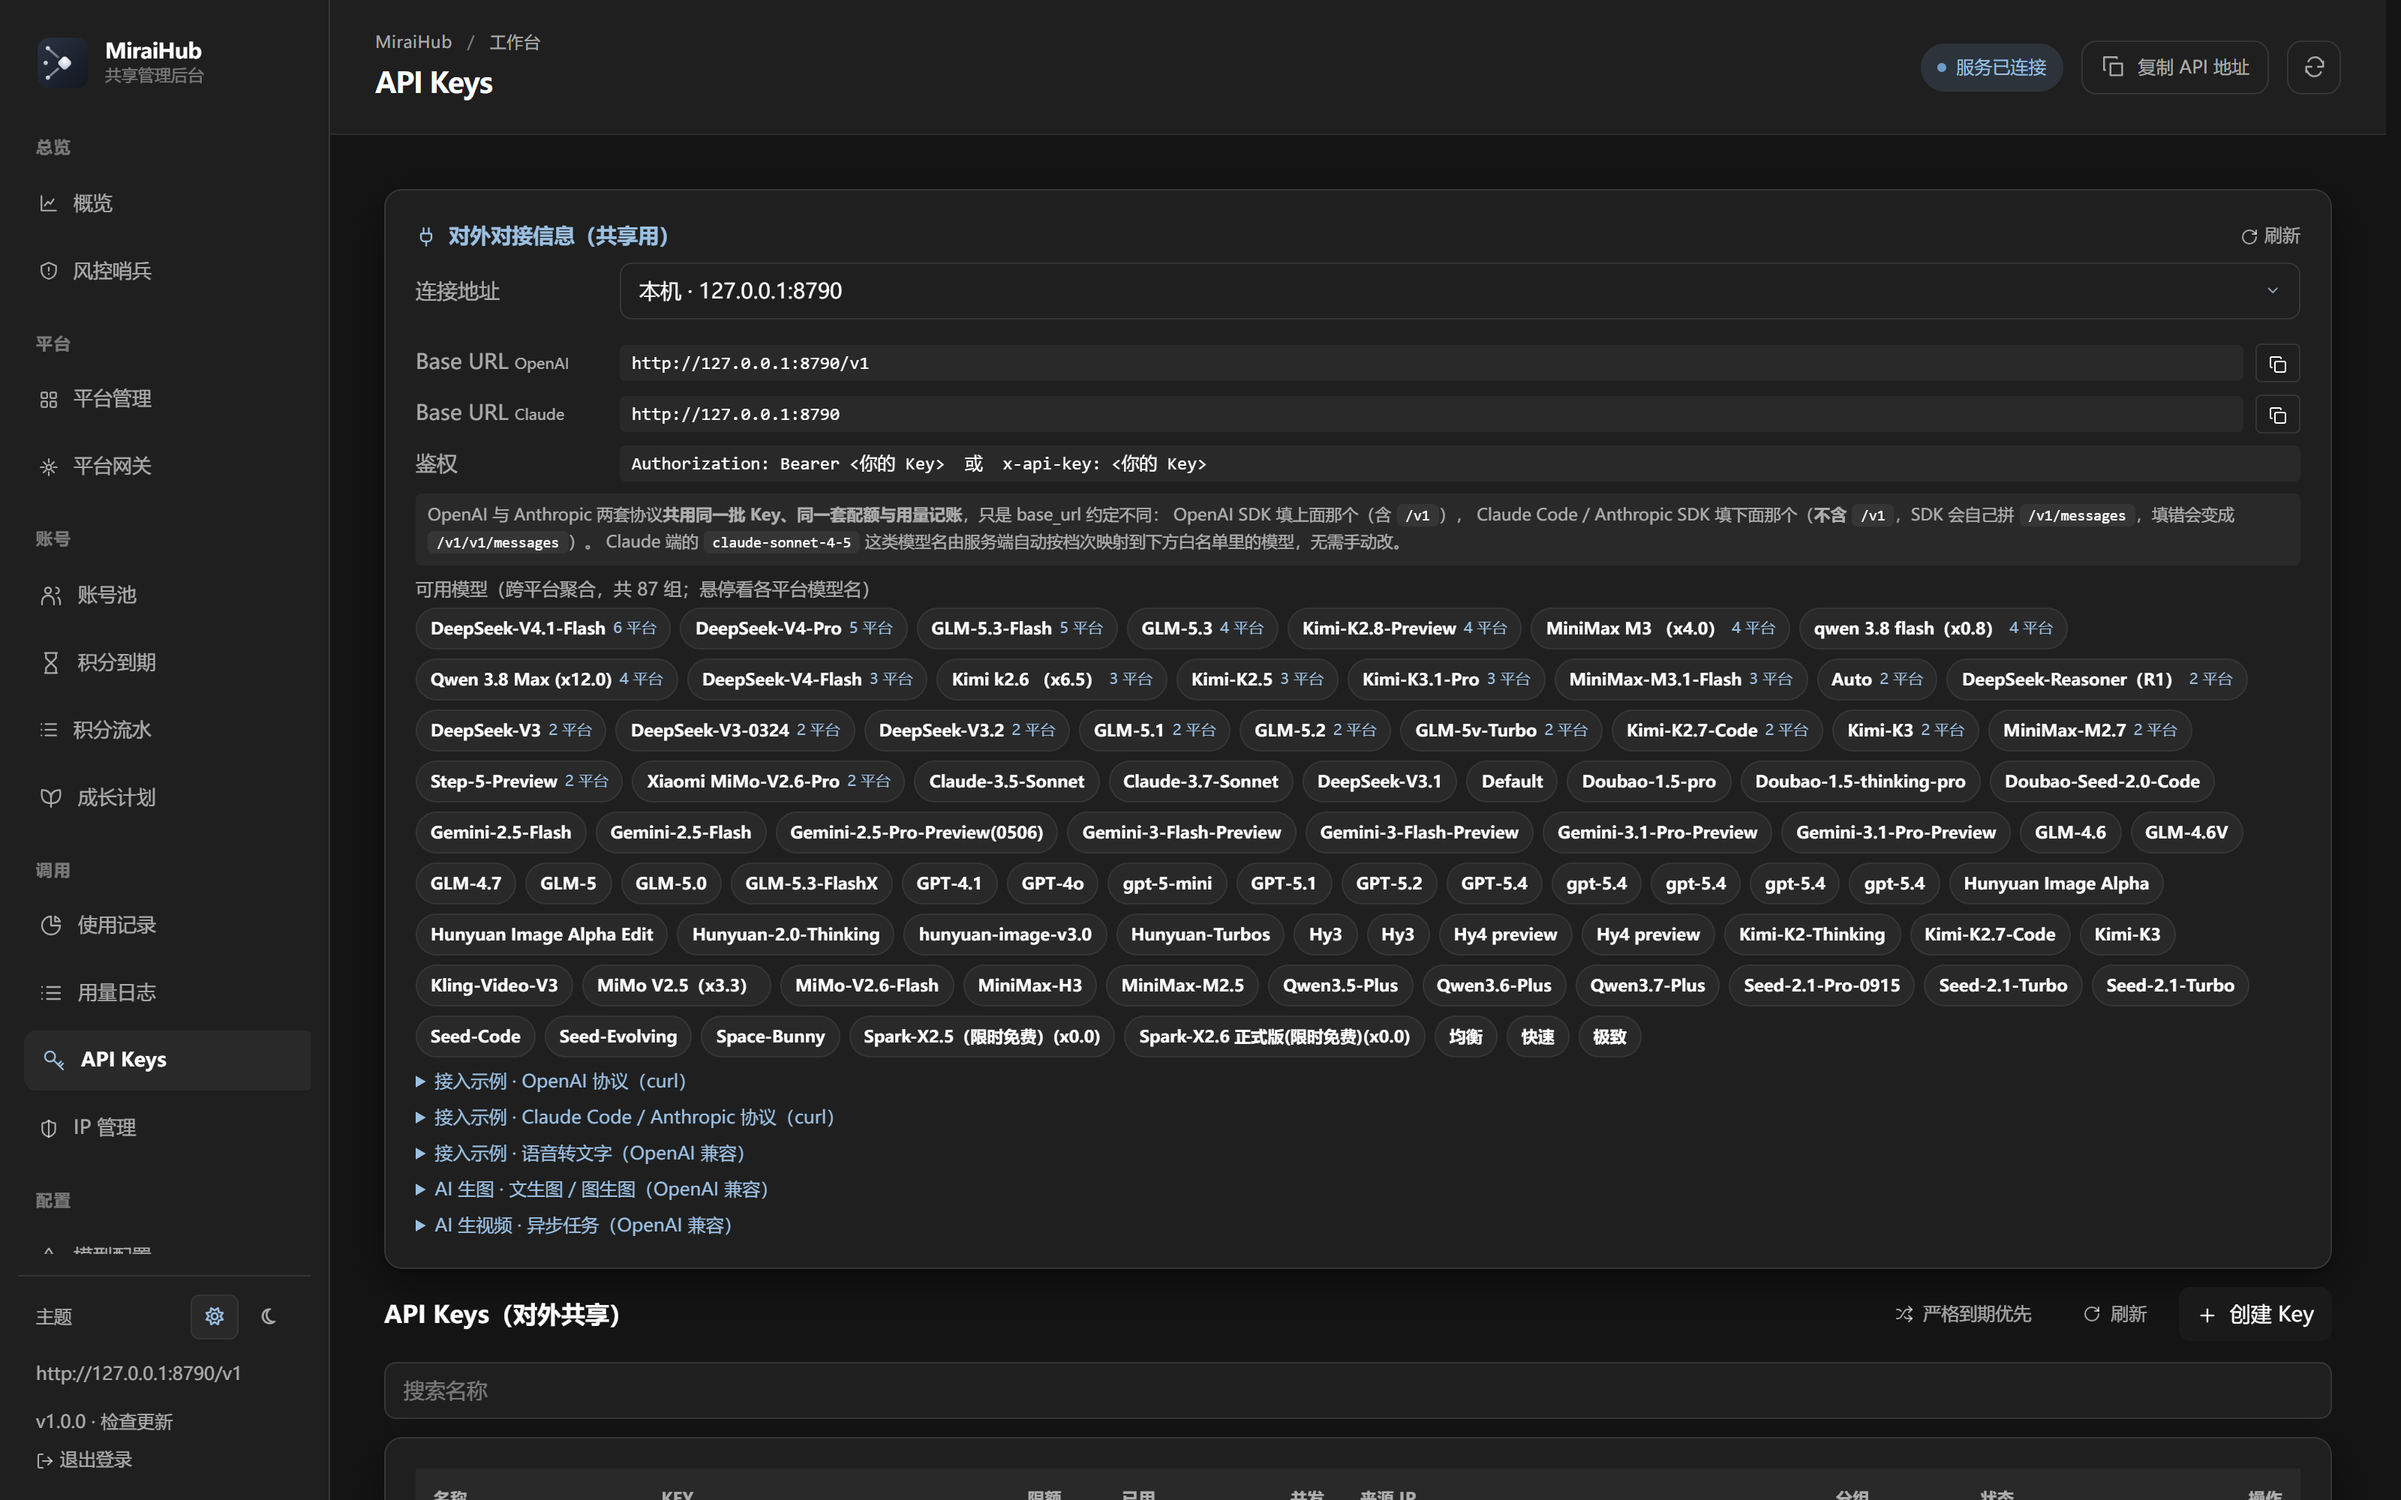
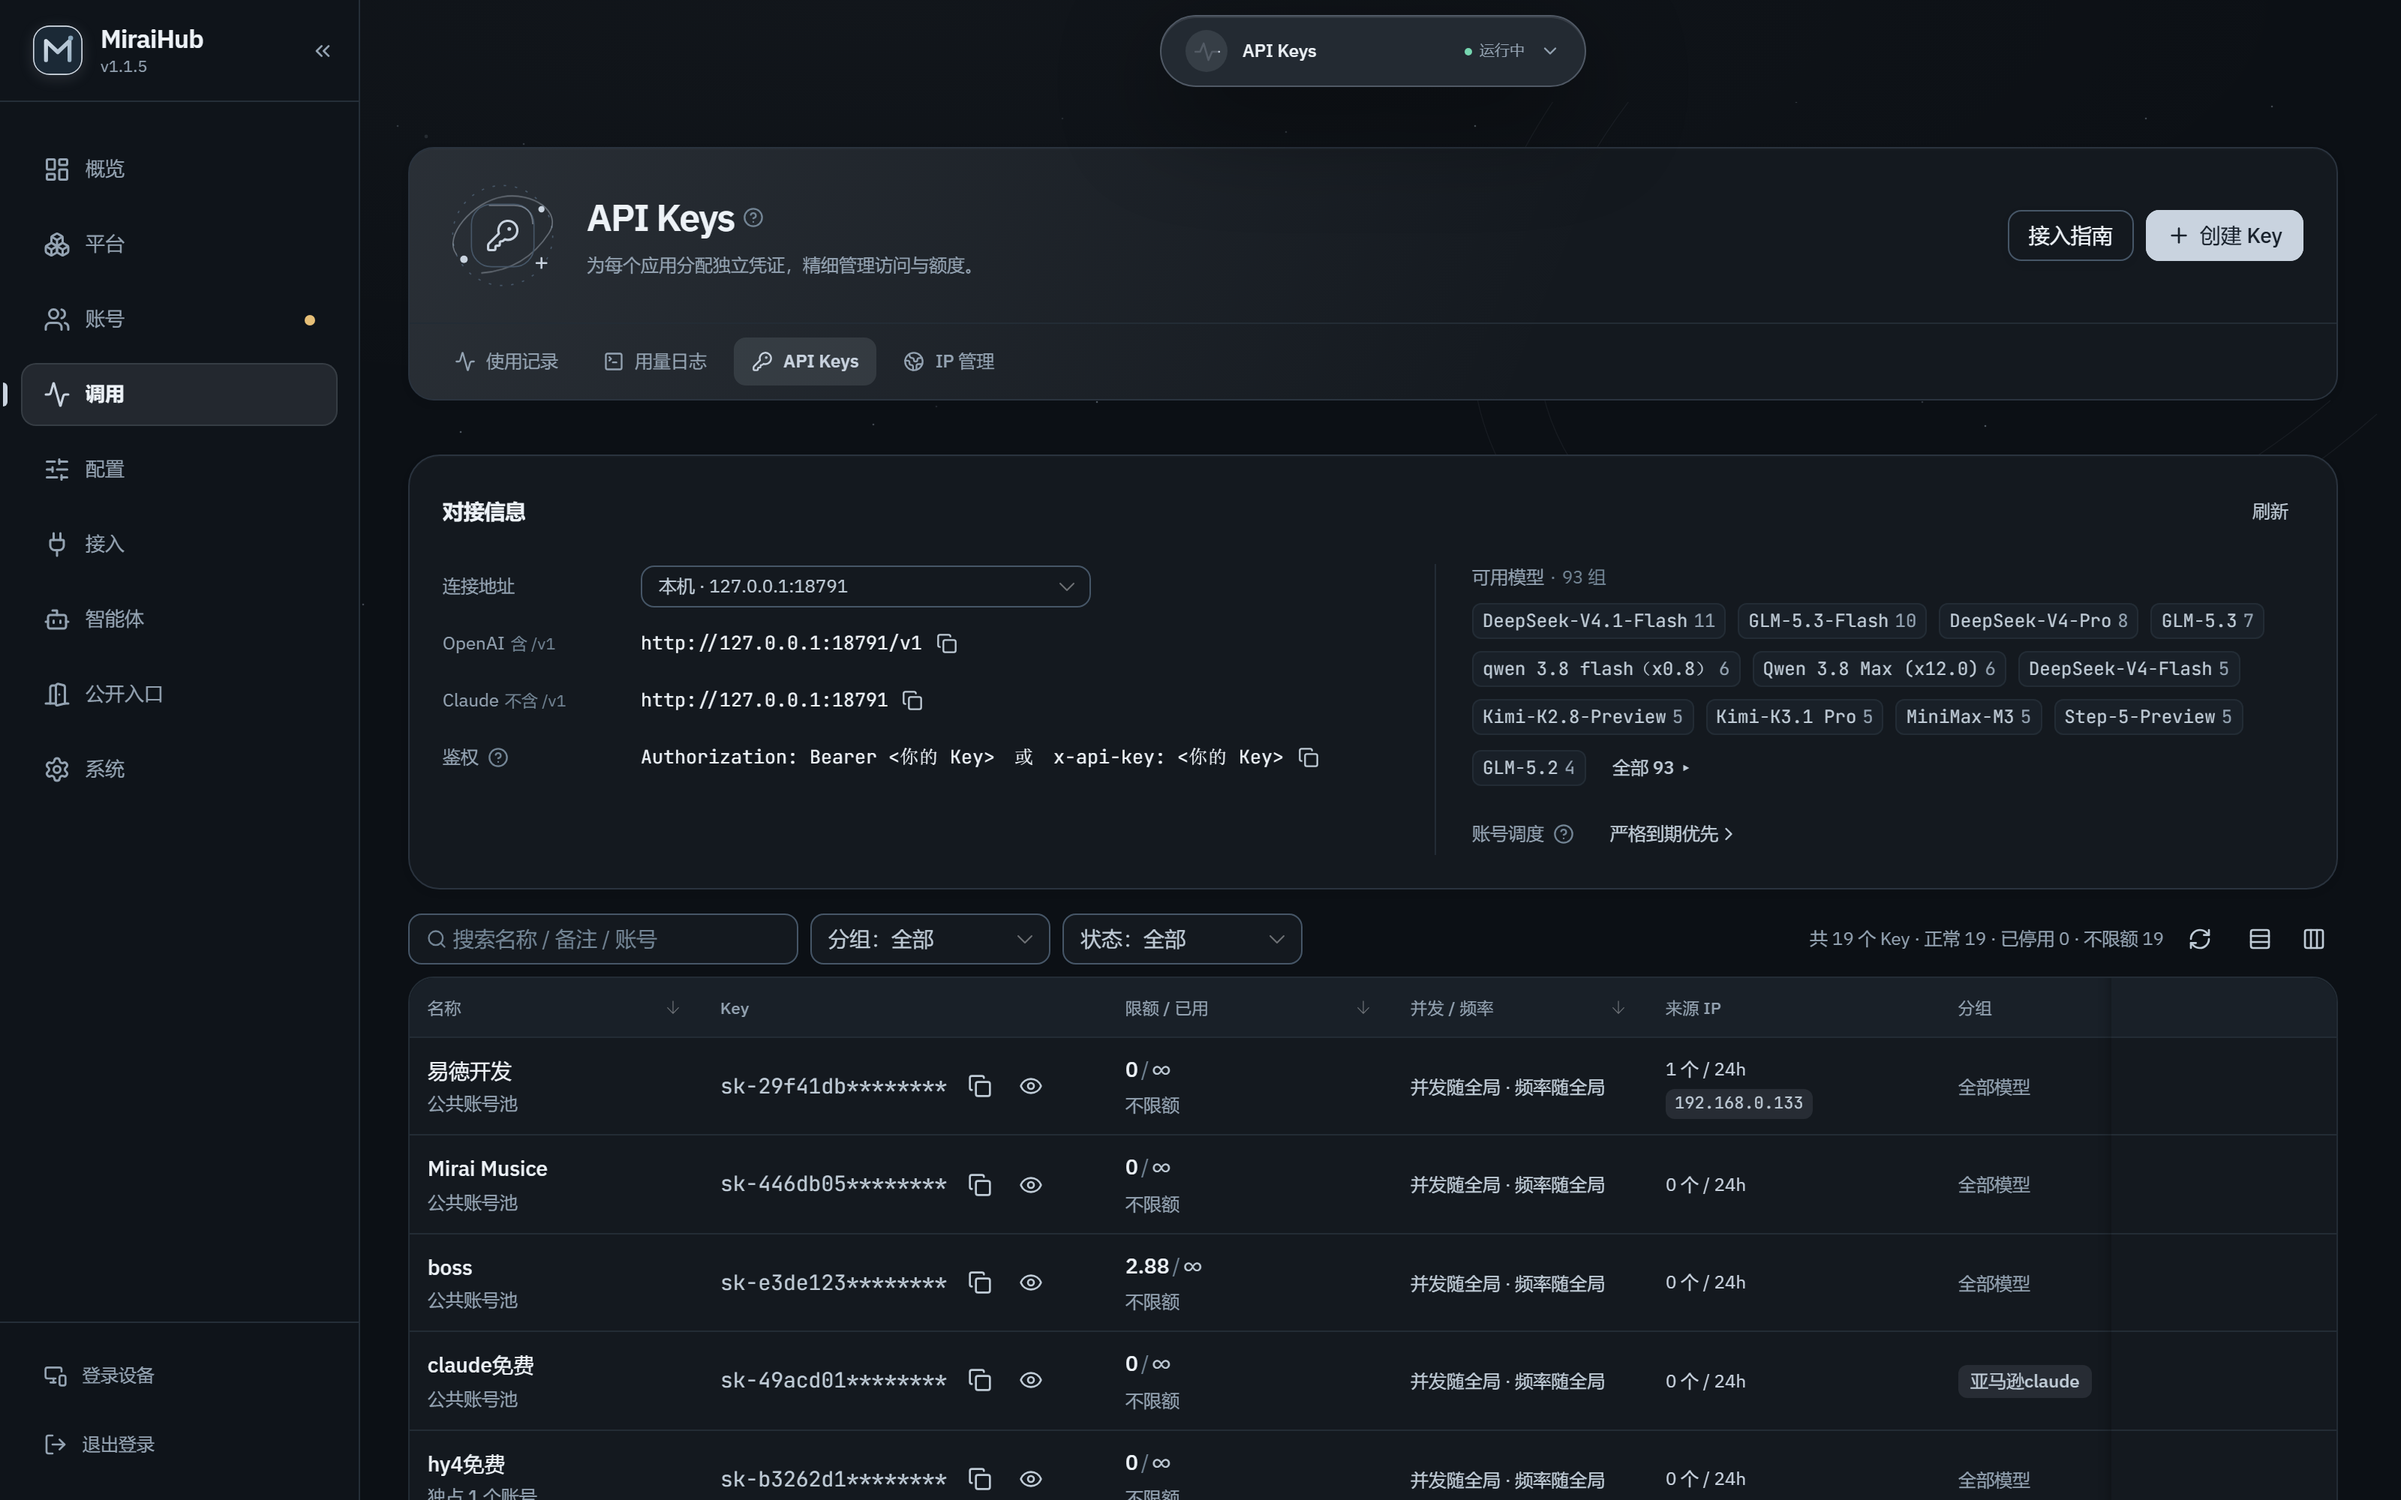
docs(readme): 重写项目说明 + 深色模式重新截图
原 README 停留在 v1.0.x 时代：还在讲 `admin/console` 那套手写 JS 后台，
截图是浅色旧版，平台清单缺 KroWork / Marvis，也没有智能体、模型广场、
公开注册入口这些后来才有的页面。

## README

按当前实现重写（425 → 291 行，信息密度更高）：

- 「管理后台」新章节：Vue 3 + Vite 单一实现、25 页 / 9 组的完整页面表，
  并写明旧控制台与 `?ui=v1` / `MIRAIHUB_CONSOLE` 已在 v1.1.5 下线
- 「特色功能」补：模型广场、智能体（预设 / 增强 / 长视频分段）、公开注册入口
  （含 WorkBuddy 官方登录接力）、Android 原生桥接
- 「支持的平台」补 KroWork、腾讯 Marvis，并给每个平台标注登录/授权方式
- 「目录结构」`admin/console/` → `admin/ui/`（含 dist 不入库的说明）
- 「用起来」补第 0 步「确认模型目录」（没配的模型对客户端不可见）
- FAQ 补两条真实问题：「后台 404 / 白屏 = 前端没构建」「Android 少设置 = 桥接未注入」

## 截图

10 张全部重截：1600×1000 @2x（3200×2000，与旧图同规格）、**深色主题**、
真实数据（88 个账号 / 19 个 Key 的实例）。

- 替换 6 张：overview / sentinel / gateway / keys / logs / credits
- 新增 4 张：accounts / models / market / agent

`.gitignore` 第 201 行的 `screenshots/` 会连带挡掉 `assets/screenshots/`，
加白名单放行（根目录的临时截图目录仍旧忽略）。

## 顺带修掉的两处合并遗留

截图时从侧栏暴露出来的：

1. `SideNav.vue` 底部还有「切回旧版」按钮指向 `/admin?ui=v1` —— 合并后这个
   开关已失效，点了只会重载当前页。删按钮、`Undo2` 图标 import、
   `shell.legacyConsole*` 两条 i18n（zh/en）。
2. `LoginPage.vue` 登录成功后 `location.replace('/admin/v2/')`、
   品牌链接指向 `/admin/v2/login.html` —— 改到 `/admin/`（少一跳 301）。

验证：vue-tsc --noEmit 通过；pnpm build 通过；Playwright 实登 10 页截图，
`document.documentElement.dataset.theme` 确认为 `dark`；README 引用的 10 张图
全部存在。

diff --git a/admin/ui/src/layout/SideNav.vue b/admin/ui/src/layout/SideNav.vue
@@ -2,7 +2,7 @@
 import { computed, onBeforeUnmount, onMounted } from 'vue'
 import { useRoute, useRouter } from 'vue-router'
 import { NPopover } from 'naive-ui'
-import { ChevronsLeft, ChevronsRight, LogOut, MonitorSmartphone, Undo2 } from 'lucide-vue-next'
+import { ChevronsLeft, ChevronsRight, LogOut, MonitorSmartphone } from 'lucide-vue-next'
 import { GROUPS, PAGES_BY_KEY, groupEntry, isPageKey, type GroupDef, type PageKey } from '@/router/pages'
 import { useShellBadges } from '@/platform/shellBadges'
 import { useAppInfo } from '@/platform/version'
@@ -15,7 +15,7 @@ import TitleTip from '@/components/base/TitleTip.vue'
  * 侧栏（03-shell §2.1 + 10-visual-refresh §1.2）：深墨蓝，两种主题都是。
  *   顶部品牌区：logo（28px 圆角方底，深底上清楚）+ MiraiHub + 版本号小字（有更新时带「有更新」）；
  *   中间 9 个分组项 36px：选中 = --side-active-bg 底 + 左侧 3px --side-accent 竖条 + 白字；
- *   底部：登录设备、切回旧版、退出登录。
+ *   底部：登录设备、退出登录。
  * 点击分组回到该组上次访问的页面（localStorage `mh.lastTab.<group>`）。
  * 768–1279 默认收起 64px（悬停显示 tooltip），状态存 `mh.sideCollapsed`；<768 由 MobileDrawer 复用本组件。
  *
@@ -216,16 +216,6 @@ function goMaintenance(): void {
           </button>
         </template>
         <div class="mh-help__content">{{ t('shell.sessions') }}</div>
-      </n-popover>
-      <n-popover placement="right" :delay="200">
-        <template #trigger>
-          <a class="foot-item foot-link" href="/admin?ui=v1">
-            <Undo2 :size="16" />
-            <span v-if="!isCollapsed">{{ t('shell.legacyConsole') }}</span>
-            <span v-else class="mh-sr-only">{{ t('shell.legacyConsole') }}</span>
-          </a>
-        </template>
-        <div class="mh-help__content">{{ t('shell.legacyConsoleTip') }}</div>
       </n-popover>
       <n-popover placement="right" :delay="200" :disabled="!isCollapsed">
         <template #trigger>

diff --git a/admin/ui/src/login/LoginPage.vue b/admin/ui/src/login/LoginPage.vue
@@ -66,8 +66,8 @@ async function submit(): Promise<void> {
     const fp = fingerprint()
     if (fp) headers['X-Browser-Fingerprint'] = fp
     await http('POST', '/api/login', { body, headers })
-    // 会话在 HttpOnly Cookie 里；直接进新版控制台。
-    location.replace('/admin/v2/')
+    // 会话在 HttpOnly Cookie 里；直接进后台唯一入口（`/admin/v2/` 只剩 301 兼容）。
+    location.replace('/admin/')
   } catch (error) {
     if (error instanceof ApiError) {
       errorText.value = error.status === 401 ? '用户名或密码错误' : error.message
@@ -103,7 +103,7 @@ onMounted(() => {
 <template>
   <main ref="root" class="login" :class="{ 'is-paused': hidden }">
     <header class="login__topbar">
-      <a class="login__brand-head" href="/admin/v2/login.html" aria-label="MiraiHub 登录首页">
+      <a class="login__brand-head" href="/admin/login.html" aria-label="MiraiHub 登录首页">
         <svg class="login__logo" viewBox="0 0 40 40" fill="none" aria-hidden="true">
           <rect x="1" y="1" width="38" height="38" rx="12" fill="var(--surface-2)" stroke="var(--border-strong)" />
           <path d="M10.5 28V12.5l9.5 9 9.5-9V28" stroke="var(--fg)" stroke-width="2.7" stroke-linecap="round" stroke-linejoin="round" />

diff --git a/admin/ui/src/i18n/messages/en-US.ts b/admin/ui/src/i18n/messages/en-US.ts
@@ -154,8 +154,6 @@ export const enUS: Record<MessageKey, string> = {
   'shell.closeNav': 'Close navigation',
   'shell.navMenu': 'Navigation menu',
   'shell.sessions': 'Signed-in devices',
-  'shell.legacyConsole': 'Classic console',
-  'shell.legacyConsoleTip': 'Switch to the classic console',
   'shell.logout': 'Sign out',
   'shell.updates': 'Updates & backup',
   'shell.hasUpdate': 'Update',

diff --git a/admin/ui/src/i18n/messages/zh-CN.ts b/admin/ui/src/i18n/messages/zh-CN.ts
@@ -160,8 +160,6 @@ export const zhCN = {
   'shell.closeNav': '关闭导航',
   'shell.navMenu': '导航菜单',
   'shell.sessions': '登录设备',
-  'shell.legacyConsole': '切回旧版',
-  'shell.legacyConsoleTip': '切回旧版控制台',
   'shell.logout': '退出登录',
   'shell.updates': '更新与备份',
   'shell.hasUpdate': '有更新',
